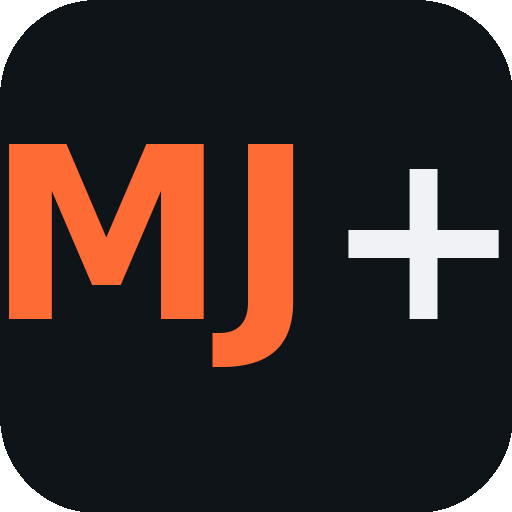
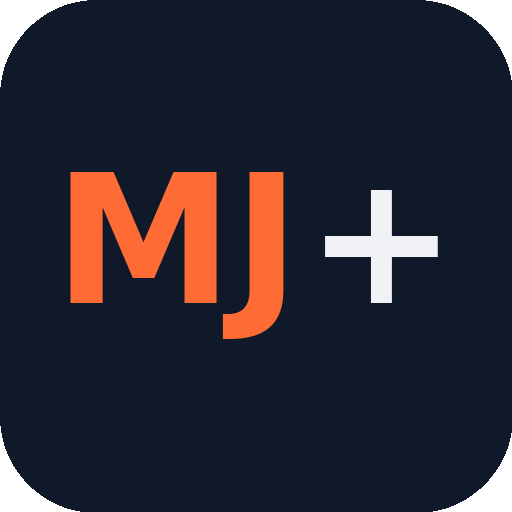
Add files via upload

Changed region(s): [[0.0, 0.2812, 0.4375, 0.625], [0.625, 0.3125, 1.0, 0.625], [0.4062, 0.2812, 0.5938, 0.7188]]

diff --git a/index.html b/index.html
@@ -7,7 +7,7 @@
 
 <!-- PWA -->
 <link rel="manifest" href="manifest.json">
-<meta name="theme-color" content="#0F1419">
+<meta name="theme-color" content="#0F1929">
 <meta name="application-name" content="MJ+">
 <meta name="apple-mobile-web-app-capable" content="yes">
 <meta name="apple-mobile-web-app-status-bar-style" content="black-translucent">
@@ -21,11 +21,11 @@
 <link href="https://fonts.googleapis.com/css2?family=Inter:wght@400;500;600;700;800;900&display=swap" rel="stylesheet">
 <style>
 :root {
-  --bg-primary: #0F1419;
-  --bg-card: #1A1F26;
-  --bg-elevated: #232932;
-  --bg-modal: #161B22;
-  --border: #2A3038;
+  --bg-primary: #0F1929;
+  --bg-card: #1A2438;
+  --bg-elevated: #232E45;
+  --bg-modal: #16213A;
+  --border: #2A3450;
   --text-primary: #F0F2F5;
   --text-secondary: #9CA3AF;
   --text-tertiary: #6B7280;
@@ -137,7 +137,7 @@ button {
    HERO CARD
    ======================================== */
 .hero {
-  background: linear-gradient(135deg, #1F2630 0%, #1A1F26 100%);
+  background: linear-gradient(135deg, #1F2B45 0%, #1A2438 100%);
   border: 1px solid var(--border);
   border-radius: var(--radius-lg);
   padding: 24px 20px;
